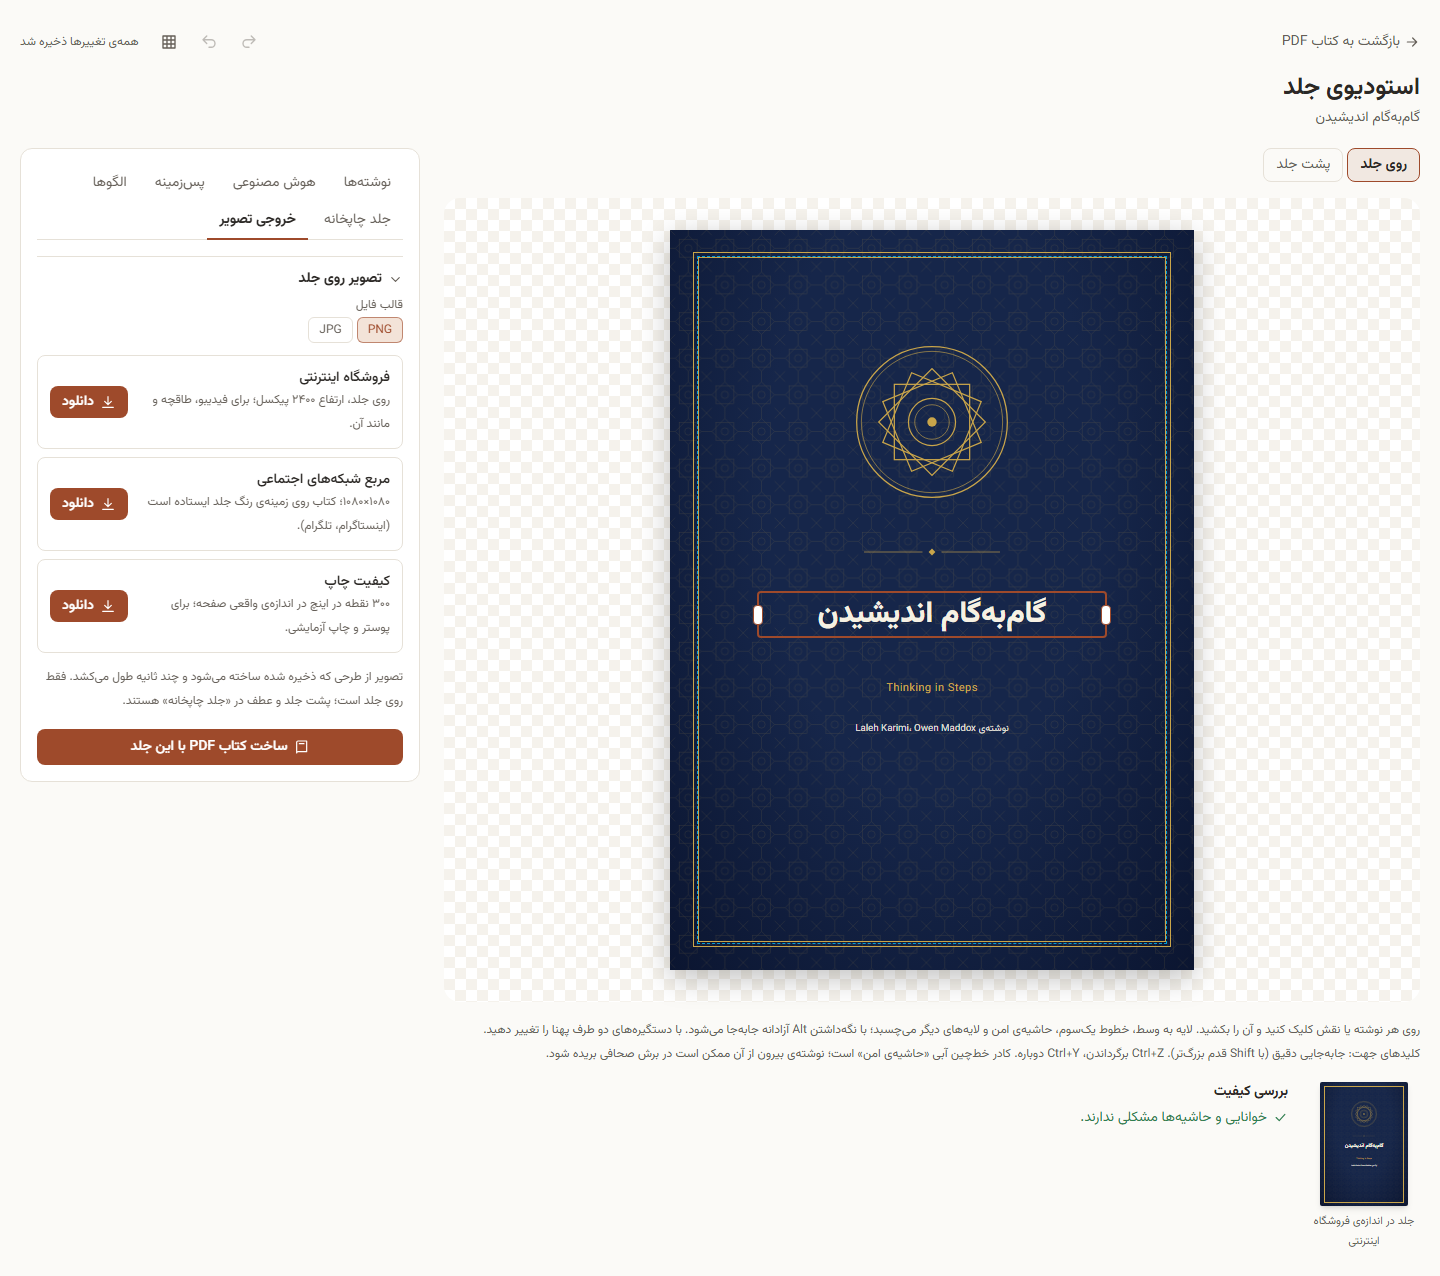
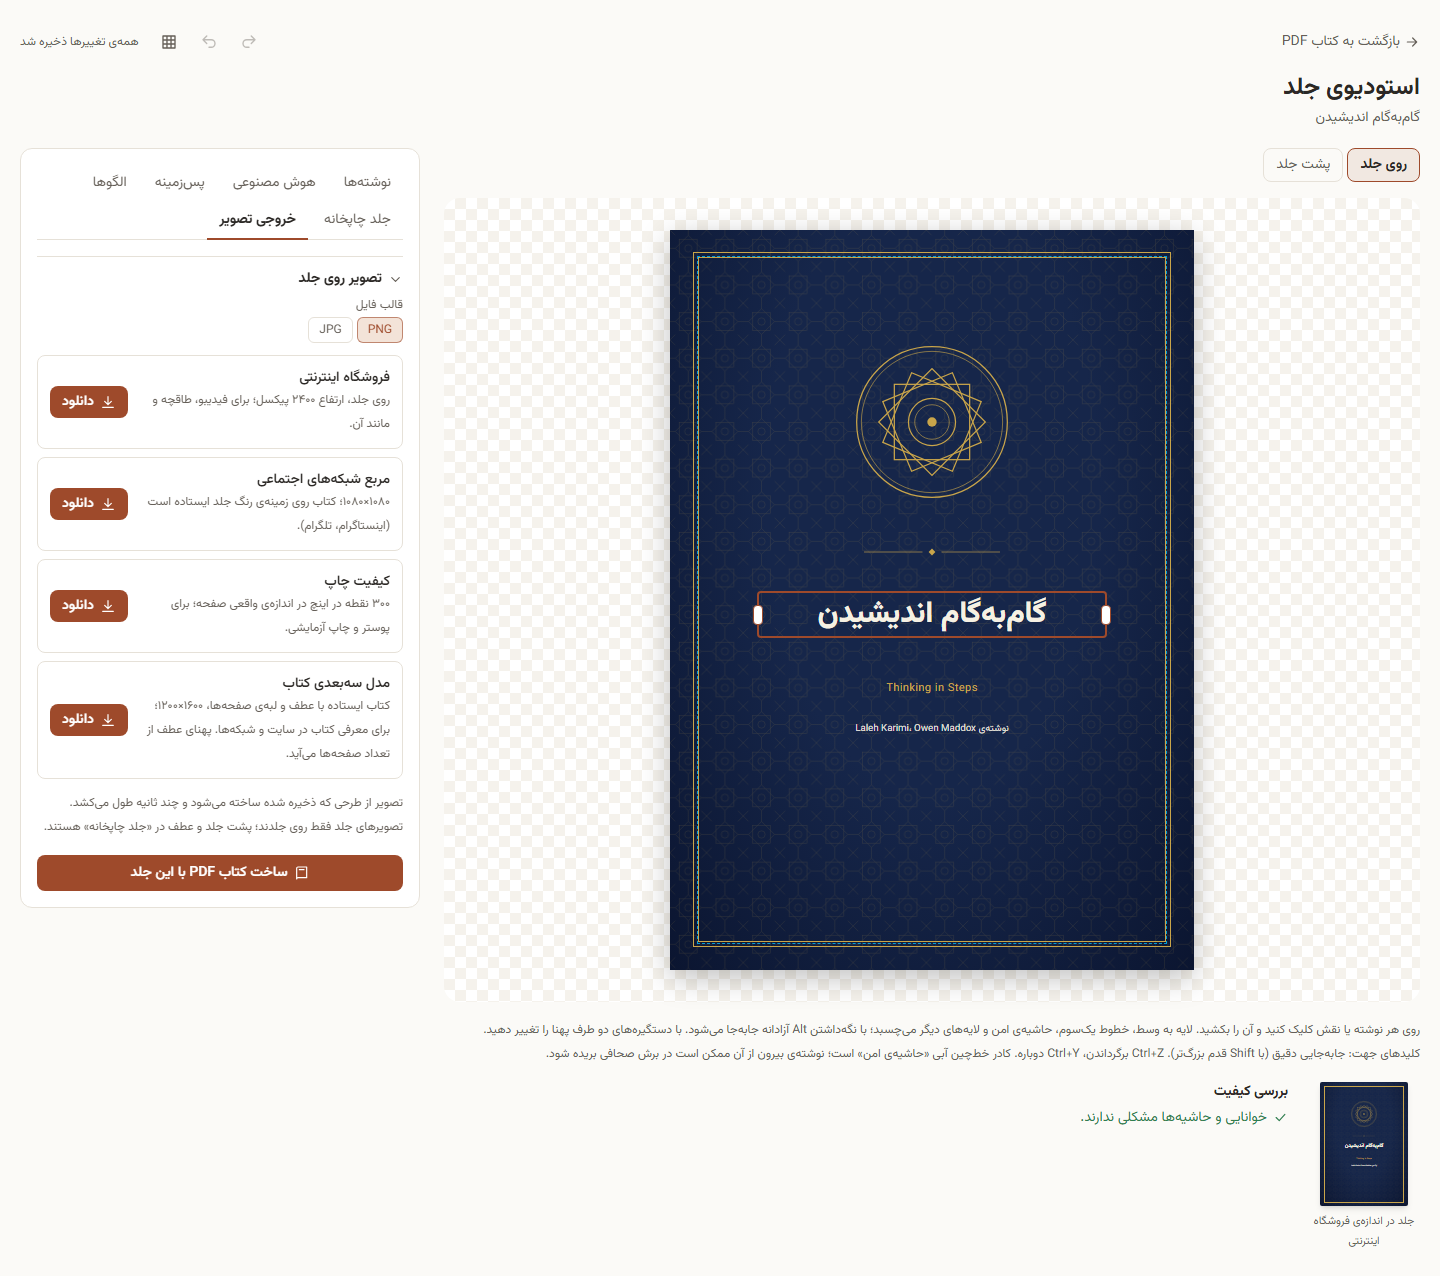
feat(cover): 3D mockup of the book as PNG/JPG (stage 4b)

Changed region(s): [[0.0, 0.5196, 0.2812, 0.703]]

diff --git a/packages/cover/src/mockup.ts b/packages/cover/src/mockup.ts
@@ -1,0 +1,69 @@
+import type { CoverDesign } from '@dozabaneh/shared';
+import { escapeHtml } from '@dozabaneh/text';
+import { COVER_STYLE, coverMarkup, type RenderEnv } from './render';
+import { type SpineText, spineDesign, spineTextMarkup } from './sheet';
+
+/**
+ * A 3D picture of the book (ADR-048, stage 4b): a box in CSS 3D — front, spine, page block, back — measured in
+ * millimetres like the real book, turned three-quarters toward the viewer on a soft studio ground and photographed
+ * by the browser. Pure string building; the caller supplies the fonts' CSS and how images are addressed.
+ */
+export const MOCKUP_SIZE = { width: 1600, height: 1200 } as const;
+/** The book's height as a share of the picture's. */
+const FILL = 0.74;
+const PX_PER_MM = 96 / 25.4;
+/** Even a hairline spine gets this much depth so the book reads as a book. */
+const MIN_DEPTH_MM = 6;
+
+const mm = (v: number) => String(Math.round(v * 100) / 100);
+
+export interface MockupInput {
+  front: CoverDesign;
+  spine: SpineText | null;
+  page: { width: number; height: number };
+  spineMm: number;
+  /** Right-to-left books have the spine on the right of the front. */
+  rtl: boolean;
+  env: RenderEnv;
+  css: string;
+  title: string;
+  lang: string;
+}
+
+export function mockupPage(input: MockupInput): { html: string; size: { width: number; height: number } } {
+  const { page, rtl } = input;
+  const D = Math.max(input.spineMm, MIN_DEPTH_MM);
+  const W = page.width;
+  const H = page.height;
+  const scale = (MOCKUP_SIZE.height * FILL) / (H * PX_PER_MM);
+  // The edge that carries the spine turns toward the viewer.
+  const turn = rtl ? -32 : 32;
+  const spineX = rtl ? W : 0;
+  const pagesX = rtl ? 0 : W;
+  const spineFace = `${coverMarkup(spineDesign(input.front), input.env, { uid: 'spine' })}${spineTextMarkup(input.spine ?? { title: '', author: '', font: 'vazirmatn', weight: 700, color: '#fff', accent: '#fff' }, D, H, input.env)}`;
+  const html = `<!doctype html><html lang="${escapeHtml(input.lang)}"><head><meta charset="utf-8"><title>${escapeHtml(input.title)}</title>
+<style>html,body{margin:0;padding:0}
+body{width:${MOCKUP_SIZE.width}px;height:${MOCKUP_SIZE.height}px;overflow:hidden;position:relative;
+ background:radial-gradient(ellipse at 50% 38%,#f7f4ee 0%,#e4ddd0 60%,#cfc6b4 100%)}
+.floor{position:absolute;left:50%;top:${Math.round(MOCKUP_SIZE.height * (0.5 + FILL / 2) - 28)}px;width:${Math.round(W * PX_PER_MM * scale * 1.25)}px;height:70px;transform:translateX(-50%);
+ background:radial-gradient(ellipse at center,rgba(40,30,15,.5) 0%,rgba(40,30,15,.18) 55%,rgba(40,30,15,0) 72%);filter:blur(10px)}
+.scene{position:absolute;inset:0;perspective:2600px;display:flex;align-items:center;justify-content:center}
+.stage{transform:scale(${scale.toFixed(4)});transform-style:preserve-3d}
+.book{position:relative;width:${mm(W)}mm;height:${mm(H)}mm;transform-style:preserve-3d;transform:rotateX(-7deg) rotateY(${turn}deg)}
+.face{position:absolute;overflow:hidden;backface-visibility:hidden}
+.front{left:0;top:0;width:${mm(W)}mm;height:${mm(H)}mm;transform:translateZ(${mm(D / 2)}mm)}
+.back{left:0;top:0;width:${mm(W)}mm;height:${mm(H)}mm;transform:rotateY(180deg) translateZ(${mm(D / 2)}mm);background:#222}
+.spine{left:${mm(spineX - D / 2)}mm;top:0;width:${mm(D)}mm;height:${mm(H)}mm;transform:rotateY(${rtl ? 90 : -90}deg)}
+.spine::after{content:"";position:absolute;inset:0;background:linear-gradient(${rtl ? 90 : 270}deg,rgba(0,0,0,.28),rgba(255,255,255,.08) 40%,rgba(0,0,0,.18))}
+.sheen{position:absolute;inset:0;background:linear-gradient(115deg,rgba(255,255,255,.16) 0%,rgba(255,255,255,0) 38%,rgba(0,0,0,.14) 100%)}
+.pages,.top,.bottom{background:repeating-linear-gradient(90deg,#f3eee2 0 .35mm,#e0d8c6 .35mm .5mm)}
+.pages{left:${mm(pagesX - D / 2)}mm;top:0;width:${mm(D)}mm;height:${mm(H)}mm;transform:rotateY(${rtl ? -90 : 90}deg);background:repeating-linear-gradient(0deg,#f3eee2 0 .35mm,#ddd5c2 .35mm .5mm)}
+.top{left:0;top:${mm(-D / 2)}mm;width:${mm(W)}mm;height:${mm(D)}mm;transform:rotateX(90deg)}
+.bottom{left:0;top:${mm(H - D / 2)}mm;width:${mm(W)}mm;height:${mm(D)}mm;transform:rotateX(-90deg);filter:brightness(.8)}
+${COVER_STYLE}${input.css}</style></head><body><div class="floor"></div><div class="scene"><div class="stage"><div class="book">
+<div class="face back"></div><div class="face pages"></div><div class="face top"></div><div class="face bottom"></div>
+<div class="face spine">${spineFace}</div>
+<div class="face front">${coverMarkup(input.front, input.env, { uid: 'front' })}<div class="sheen"></div></div>
+</div></div></div></body></html>`;
+  return { html, size: { ...MOCKUP_SIZE } };
+}

diff --git a/apps/api/src/export/book/cover-image.ts b/apps/api/src/export/book/cover-image.ts
@@ -1,13 +1,15 @@
 import { mkdirSync, writeFileSync } from 'node:fs';
 import { join } from 'node:path';
-import { coverImagePage, type ImageFormat, type ImagePreset } from '@dozabaneh/cover';
+import { coverImagePage, type ImageFormat, type ImagePreset, mockupPage } from '@dozabaneh/cover';
 import { BOOK_PAGE_MM } from '@dozabaneh/shared';
+import { getLanguage } from '@dozabaneh/text';
 import type { Config } from '../../config';
 import type { Db } from '../../db/client';
 import { getBundle } from '../../db/repo';
 import { coverFontFamily, embeddedFontCss, type FontRegistry } from '../../fonts/registry';
 import { savedOptions } from './build';
 import { coverDesign, coverTexts, designFonts, imageFile } from './cover-design';
+import { coverPrintView, spineTextFor } from './cover-print';
 import { bookPdfDir } from './figures';
 import { takePicture } from './print';
 
@@ -53,4 +55,49 @@ export async function renderCoverImage(
   writeFileSync(htmlFile, html);
   const bytes = await takePicture(htmlFile, size, format);
   return { bytes, ...size, mime: format === 'png' ? 'image/png' : 'image/jpeg' };
+}
+
+/**
+ * The book standing in 3D (stage 4b): front, spine (width from the pages and paper; 14 mm when the pages are not yet
+ * known) and the page block, three-quarters toward the viewer, as a PNG or JPG of 1600 × 1200.
+ */
+export async function renderMockup(
+  deps: Deps,
+  fonts: FontRegistry,
+  bookId: string,
+  lang: string,
+  format: ImageFormat,
+): Promise<{ bytes: Uint8Array; width: number; height: number; mime: string; spineMm: number }> {
+  const bundle = getBundle(deps.db, bookId);
+  if (!bundle) throw new Error('BOOK_NOT_FOUND');
+  const dir = bookPdfDir(deps.config, bookId);
+  mkdirSync(dir, { recursive: true });
+  const { design } = coverDesign(deps, bookId, lang);
+  const view = coverPrintView(deps, bookId, lang);
+  const options = savedOptions(deps.db, bookId);
+  const texts = coverTexts(bundle, lang, options.preparer);
+  const env = {
+    imageUrl: (id: string) => {
+      const img = imageFile(deps.config, bookId, id);
+      return img ? img.file.slice(dir.length + 1).replace(/\\/g, '/') : '';
+    },
+    fontFamily: coverFontFamily,
+  };
+  const used = new Set(['vazirmatn', ...designFonts(design)]);
+  const spineMm = view.spineMm ?? 14;
+  const { html, size } = mockupPage({
+    front: design,
+    spine: spineTextFor(design, view.print, texts.title ?? '', bundle.book.authors),
+    page: BOOK_PAGE_MM[options.pageSize],
+    spineMm,
+    rtl: getLanguage(lang).dir === 'rtl',
+    env,
+    css: embeddedFontCss(fonts.all().filter((f) => used.has(f.id))),
+    title: texts.title ?? '',
+    lang,
+  });
+  const htmlFile = join(dir, `cover-mockup-${lang}.html`);
+  writeFileSync(htmlFile, html);
+  const bytes = await takePicture(htmlFile, size, format);
+  return { bytes, ...size, mime: format === 'png' ? 'image/png' : 'image/jpeg', spineMm };
 }

diff --git a/apps/api/src/export/book/cover-print.ts b/apps/api/src/export/book/cover-print.ts
@@ -268,6 +268,26 @@ export type SheetMode =
   /** For the studio's preview: fonts and images fetched from this server. */
   | { kind: 'preview'; apiPrefix: string };
 
+/** The spine's lettering from the front's title face and credit colour; null when the setting is off. */
+export function spineTextFor(
+  front: CoverDesign,
+  print: Pick<CoverPrint, 'spineText'>,
+  title: string,
+  authors: string[],
+): SpineText | null {
+  const titleLayer = front.layers.find((l) => l.kind === 'text' && l.role === 'title');
+  const credit = front.layers.find((l) => l.kind === 'text' && l.role === 'preparer');
+  if (!print.spineText || titleLayer?.kind !== 'text') return null;
+  return {
+    title,
+    author: authors.join('، '),
+    font: titleLayer.font,
+    weight: titleLayer.weight,
+    color: titleLayer.color,
+    accent: credit?.kind === 'text' ? credit.accent : '#c9a54a',
+  };
+}
+
 export function buildSheet(deps: Deps, fonts: FontRegistry, bookId: string, lang: string, mode: SheetMode): Sheet {
   const bundle = getBundle(deps.db, bookId);
   if (!bundle) throw new Error('BOOK_NOT_FOUND');
@@ -288,18 +308,7 @@ export function buildSheet(deps: Deps, fonts: FontRegistry, bookId: string, lang
   };
   const body = view.back.layers.find((l) => l.kind === 'text' && l.visible && l.id !== 'blurb');
   const titleLayer = front.layers.find((l) => l.kind === 'text' && l.role === 'title');
-  const credit = front.layers.find((l) => l.kind === 'text' && l.role === 'preparer');
-  const spine: SpineText | null =
-    view.print.spineText && titleLayer?.kind === 'text'
-      ? {
-          title: texts.title ?? '',
-          author: bundle.book.authors.join('، '),
-          font: titleLayer.font,
-          weight: titleLayer.weight,
-          color: titleLayer.color,
-          accent: credit?.kind === 'text' ? credit.accent : '#c9a54a',
-        }
-      : null;
+  const spine = spineTextFor(front, view.print, texts.title ?? '', bundle.book.authors);
   const ink = titleLayer?.kind === 'text' ? titleLayer.color : '#ffffff';
   const family = coverFontFamily(body?.kind === 'text' ? body.font : 'vazirmatn');
   const extras = backExtrasMarkup(view.print, page.width, env, ink, family);

diff --git a/apps/api/src/routes/cover-print.ts b/apps/api/src/routes/cover-print.ts
@@ -11,7 +11,7 @@ import type { FastifyInstance } from 'fastify';
 import { z } from 'zod';
 import type { AppContext } from '../app';
 import { getBundle } from '../db/repo';
-import { renderCoverImage } from '../export/book/cover-image';
+import { renderCoverImage, renderMockup } from '../export/book/cover-image';
 import {
   buildSheet,
   coverPrintView,
@@ -108,6 +108,29 @@ export async function coverPrintRoutes(app: FastifyInstance, { ctx }: { ctx: App
       const name = exportFileName(
         `${bundle.book.titles[bundle.book.sourceLang] ?? ''}-${q.preset}`,
         `dozabaneh-${bundle.book.id}-${q.preset}`,
+        q.format,
+      );
+      return reply
+        .header('Content-Type', pic.mime)
+        .header('Content-Disposition', `attachment; filename="${name}"`)
+        .header('X-Image-Size', `${pic.width}x${pic.height}`)
+        .header('Cache-Control', 'no-store')
+        .send(Buffer.from(pic.bytes));
+    } catch (err) {
+      if (err instanceof BrowserNotFoundError) throw httpError(503, 'BROWSER_NOT_FOUND');
+      throw err;
+    }
+  });
+
+  /** The book standing in 3D (front, spine, pages) as a picture. */
+  app.get<{ Params: { id: string } }>(`${API_PREFIX}/books/:id/cover-mockup`, async (req, reply) => {
+    const q = LangQuery.extend({ format: z.enum(IMAGE_FORMATS).default('png') }).parse(req.query ?? {});
+    const { bundle, lang } = book(req.params.id, q.lang);
+    try {
+      const pic = await renderMockup(deps(), ctx.fonts, req.params.id, lang, q.format);
+      const name = exportFileName(
+        `${bundle.book.titles[bundle.book.sourceLang] ?? ''}-mockup`,
+        `dozabaneh-${bundle.book.id}-mockup`,
         q.format,
       );
       return reply

diff --git a/apps/web/src/features/cover-studio/ExportPanel.tsx b/apps/web/src/features/cover-studio/ExportPanel.tsx
@@ -1,10 +1,10 @@
 import { useState } from 'react';
 import { useTranslation } from 'react-i18next';
 import { Icon } from '../../components/Icon';
-import { coverImageDownloadUrl } from '../../lib/api';
+import { coverImageDownloadUrl, coverMockupDownloadUrl } from '../../lib/api';
 import { Group, Segmented } from './controls';
 
-const PRESETS = ['shop', 'square', 'print'] as const;
+const PRESETS = ['shop', 'square', 'print', 'mockup'] as const;
 
 /**
  * «خروجی تصویر» (ADR-048, stage 4): the front cover as a PNG or JPG — the shop size, a square for social media and
@@ -38,7 +38,11 @@ export function ExportPanel(props: { bookId: string; lang: string }) {
                 <div className="text-xs leading-6 text-muted">{t(`coverStudio.export.${preset}.hint`)}</div>
               </div>
               <a
-                href={coverImageDownloadUrl(props.bookId, props.lang || undefined, preset, format)}
+                href={
+                  preset === 'mockup'
+                    ? coverMockupDownloadUrl(props.bookId, props.lang || undefined, format)
+                    : coverImageDownloadUrl(props.bookId, props.lang || undefined, preset, format)
+                }
                 download
                 className="inline-flex shrink-0 items-center gap-1.5 rounded-lg bg-accent px-3 py-1.5 text-sm font-medium text-on-accent hover:opacity-90"
                 data-testid={`export-${preset}-download`}

diff --git a/packages/cover/src/image.test.ts b/packages/cover/src/image.test.ts
@@ -1,6 +1,7 @@
 import { describe, expect, it } from 'vitest';
 import { defaultDesign, THEMES } from './defaults';
 import { coverImagePage, imageSize } from './image';
+import { mockupPage } from './mockup';
 
 const env = { imageUrl: () => '', fontFamily: () => 'Vazirmatn' };
 const A5 = { width: 145, height: 210 };
@@ -21,5 +22,18 @@ describe('cover pictures', () => {
     const sq = coverImagePage({ front, preset: 'square', page: A5, env, css: '', title: 'x', lang: 'fa' });
     expect(sq.html).toContain('class="ground"');
     expect(sq.html).toContain('class="book"');
+  });
+
+  it('builds the 3D book with the spine on the side the language reads from', () => {
+    const front = defaultDesign({ title: 'نمونه' }, THEMES.navy);
+    const base = { front, spine: null, page: A5, spineMm: 15, env, css: '', title: 'x', lang: 'fa' };
+    const rtl = mockupPage({ ...base, rtl: true });
+    const ltr = mockupPage({ ...base, rtl: false });
+    expect(rtl.size).toEqual({ width: 1600, height: 1200 });
+    expect(rtl.html).toContain('rotateY(-32deg)');
+    expect(ltr.html).toContain('rotateY(32deg)');
+    expect(rtl.html).toContain('class="face spine"');
+    // A hairline spine still gets some depth.
+    expect(mockupPage({ ...base, rtl: true, spineMm: 1 }).html).toContain('translateZ(3mm)');
   });
 });

diff --git a/apps/web/src/features/cover-studio/CoverStudioPage.tsx b/apps/web/src/features/cover-studio/CoverStudioPage.tsx
@@ -417,7 +417,11 @@ export function CoverStudioPage() {
 
           {/* Panels */}
           <aside className="flex min-w-0 flex-col gap-4 rounded-xl border border-border bg-surface p-4 lg:sticky lg:top-4 lg:max-h-[calc(100dvh-2rem)] lg:self-start lg:overflow-y-auto">
-            <div role="tablist" aria-label={t('coverStudio.panels')} className="flex flex-wrap gap-x-1 border-b border-border">
+            <div
+              role="tablist"
+              aria-label={t('coverStudio.panels')}
+              className="flex flex-wrap gap-x-1 border-b border-border"
+            >
               {(['layers', 'ai', 'background', 'templates', 'print', 'export'] as const).map((id) => (
                 <button
                   key={id}

diff --git a/apps/api/src/cover-print.test.ts b/apps/api/src/cover-print.test.ts
@@ -186,6 +186,9 @@ describe.skipIf(!findBrowser())('cover pictures: a real shot', () => {
     const sq = await app.inject({ url: '/api/v1/books/bk_sample/cover-image?lang=fa&preset=square&format=jpg' });
     expect(sq.headers['content-type']).toBe('image/jpeg');
     expect(sq.rawPayload.subarray(0, 3).toString('hex')).toBe('ffd8ff');
+    const mock = await app.inject({ url: '/api/v1/books/bk_sample/cover-mockup?lang=fa&format=png' });
+    expect(mock.statusCode).toBe(200);
+    expect(size(mock.rawPayload)).toEqual({ w: 1600, h: 1200 });
     const bad = await app.inject({ url: '/api/v1/books/bk_sample/cover-image?preset=huge' });
     expect(bad.statusCode).toBe(400);
   }, 120_000);

diff --git a/apps/web/e2e/cover-studio.spec.ts b/apps/web/e2e/cover-studio.spec.ts
@@ -265,6 +265,10 @@ test.describe('cover studio', () => {
     expect(res.headers()['content-type']).toBe('image/jpeg');
     expect(res.headers()['x-image-size']).toBe('1080x1080');
     expect((await res.body()).subarray(0, 3).toString('hex')).toBe('ffd8ff');
+    await expect(page.getByTestId('export-mockup-download')).toHaveAttribute('href', /cover-mockup\?.*format=jpg/);
+    const mock = await page.request.get((await page.getByTestId('export-mockup-download').getAttribute('href')) ?? '');
+    expect(mock.status()).toBe(200);
+    expect(mock.headers()['x-image-size']).toBe('1600x1200');
     await expectNoSeriousA11yViolations(page);
   });
 });

diff --git a/apps/web/src/lib/api.ts b/apps/web/src/lib/api.ts
@@ -462,6 +462,11 @@ export function coverImageDownloadUrl(
   );
 }
 
+/** The book standing in 3D (front, spine, pages) as a picture. */
+export function coverMockupDownloadUrl(bookId: string, lang: string | undefined, format: 'png' | 'jpg'): string {
+  return apiUrl(`/books/${bookId}/cover-mockup?${lang ? `lang=${encodeURIComponent(lang)}&` : ''}format=${format}`);
+}
+
 /** `@font-face` rules of every cover font (the browser loads a file only when a face is used). */
 export const fontsCssUrl = () => apiUrl('/fonts.css');
 

diff --git a/packages/cover/src/index.ts b/packages/cover/src/index.ts
@@ -2,6 +2,7 @@ export * from './color';
 export * from './defaults';
 export * from './geometry';
 export * from './image';
+export * from './mockup';
 export * from './presets';
 export * from './render';
 export * from './sheet';

diff --git a/docs/DECISIONS.md b/docs/DECISIONS.md
@@ -878,3 +878,16 @@ question). The remaining ceiling is the voice model itself; Azure fa-IR (Dilara/
 - **Still to do:** the 3D mockup (4b); dragging barcode, price and logo on the back canvas (4c).
 - **Note:** on this computer port 4173 is in Windows' reserved range — run e2e with `PW_WEB_PORT=4273`.
   `large-book.test.ts` failed once under full-suite load and passed alone (timing), not related.
+
+### ADR-048 amendment — stage 4b: the 3D mockup (2026-11-09)
+
+- **A box in CSS 3D (`packages/cover/src/mockup.ts`, pure):** front, back, spine, page block (fine paper stripes), top and
+  bottom, all in millimetres like the real book (so the spine's lettering is the printer's); turned 32° with a 7° tilt so
+  the spine edge faces the viewer — the right edge for right-to-left books, the left for others; sheen on the front,
+  shading on the spine, a soft floor shadow, a warm studio ground. 1600 × 1200, the book 74 % of the height.
+- **Spine depth** = the printer cover's spine (pages × paper); 14 mm when the pages are unknown; at least 6 mm so a thin
+  book still reads as a book. The spine lettering is the printer cover's (`spineTextFor`, now shared with the sheet).
+- **Output:** `GET /books/:id/cover-mockup?format=png|jpg&lang=` (`X-Image-Size`), the fourth row of tab «خروجی تصویر».
+- **Tests:** a unit test of the markup (spine side, minimum depth), the real shot in `cover-print.test.ts`, the export e2e.
+  743 unit, 56 e2e green. Debug: `data/dbg/cover-mockup.ts`.
+- **Still to do:** stage 4c — barcode, price and logo are still fixed on the back's foot.
